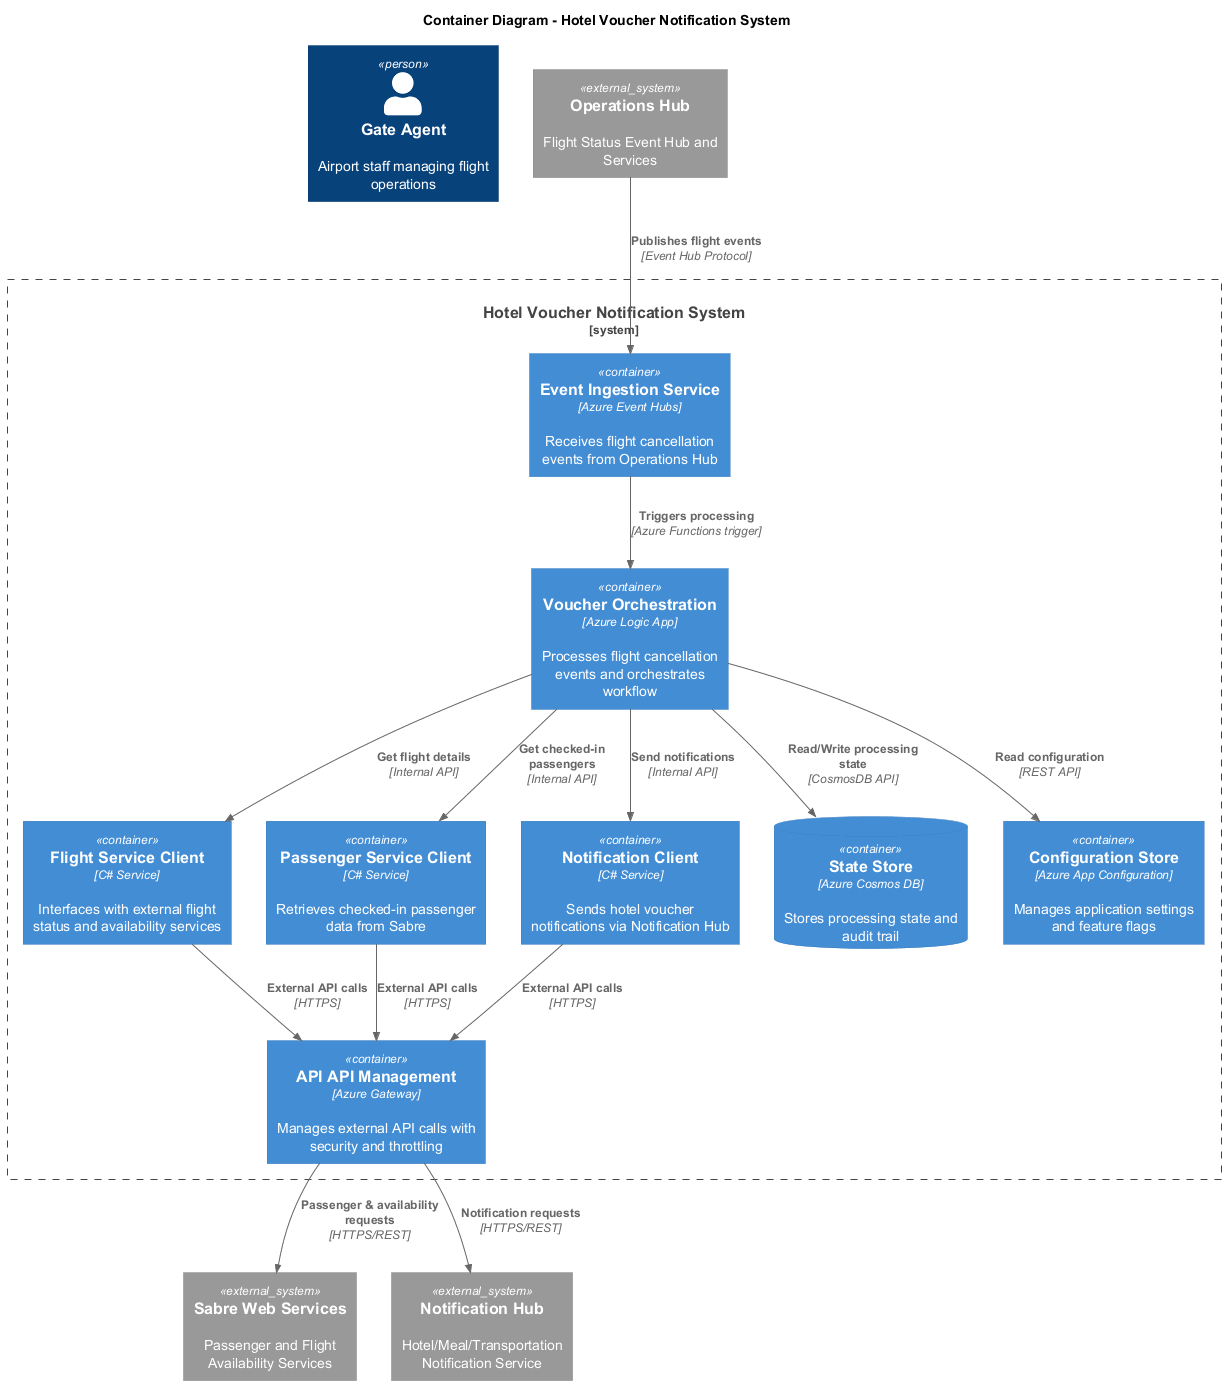
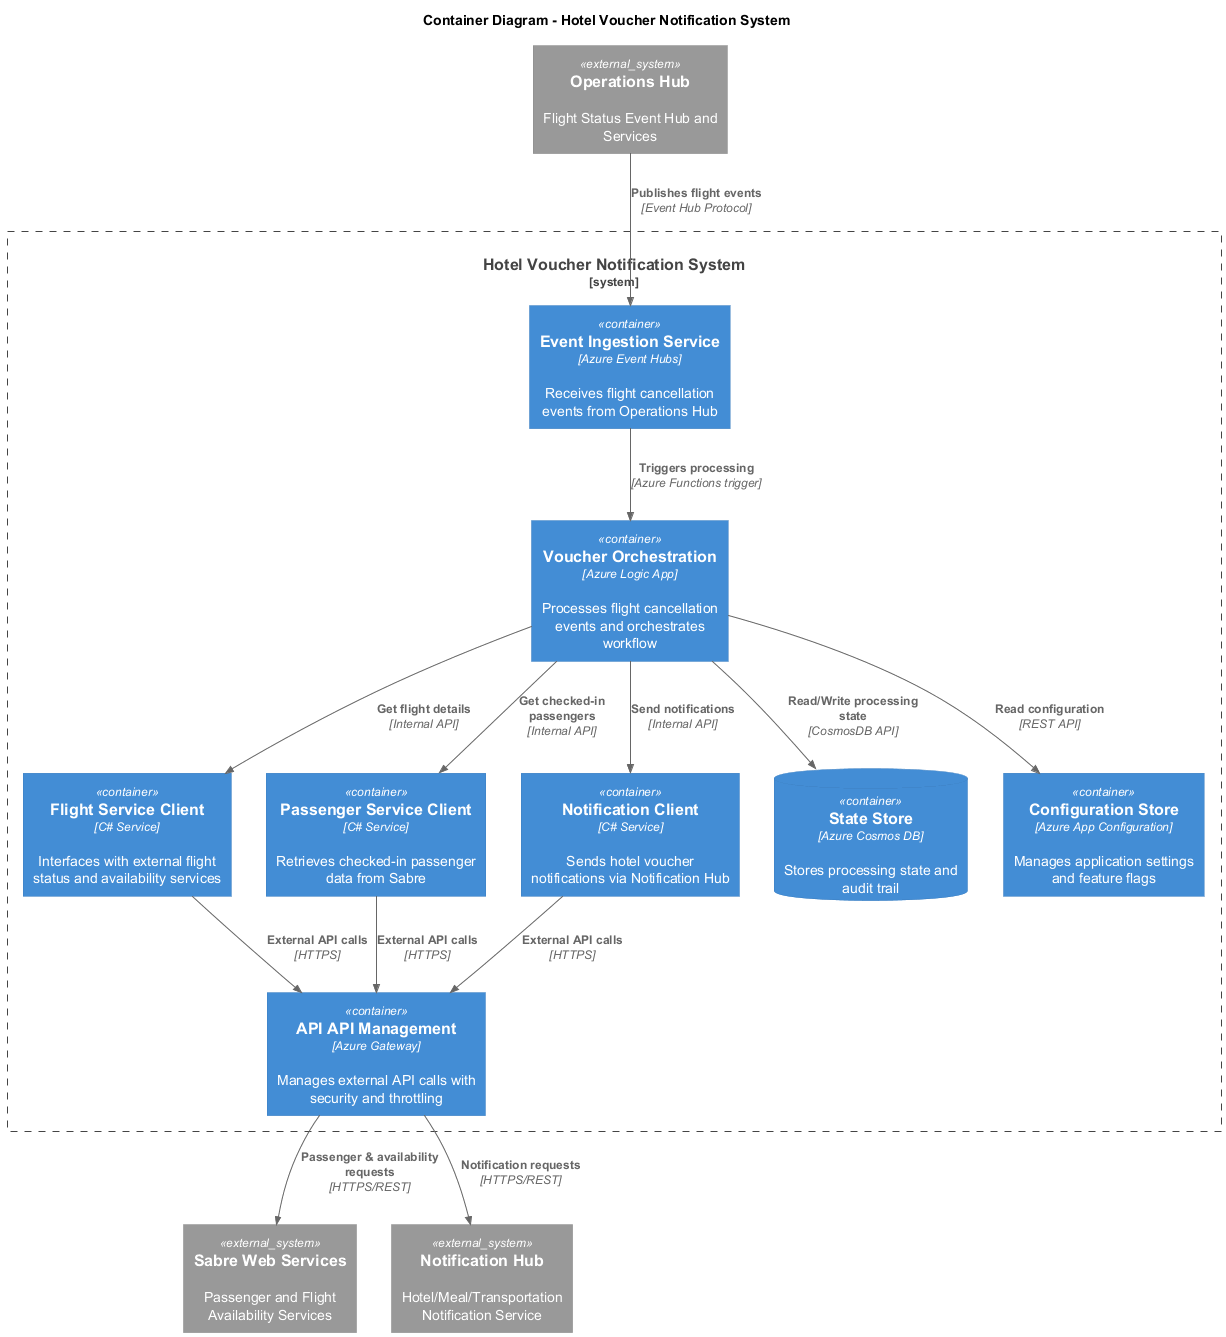
commit

Changed region(s): [[0.155, 0.0, 0.9918, 1.0], [0.0, 0.552, 0.186, 0.7053], [0.217, 0.9813, 0.279, 1.0]]

diff --git a/Exercise3/solution.md b/Exercise3/solution.md
@@ -2,27 +2,32 @@ Here is the comprehensive C4 diagram set for the Hotel Voucher Notification Syst
 ### 1. Context Diagram
 Shows the high-level system context with external actors and systems:
 
-Gate Agents using Gate Applications
-Passengers receiving notifications
-External systems (Operations Hub, Notification Hub, Sabre Services)
+-  Gate Agents using Gate Applications
+- Passengers receiving notifications
+- External systems (Operations Hub, Notification Hub, Sabre Services)
+
 ![Context](diagrams/C4_Context.png)
 
 #### 2. Container Diagram
 Details the internal architecture of the notification system:
 
-API Gateway: Azure API Management for security and rate limiting
-Event Processor: Handles flight cancellation events from Operations Hub
-Notification Orchestrator: Core workflow engine
-Flight Analyzer: Checks flight availability and passenger eligibility
-Supporting services: Service Bus, Cosmos DB, Key Vault, Application Insights
+
+- Event Ingestion Service: Receives events from Operations Hub
+- Voucher Orchestration: Core workflow engine
+- Flight Service Client: Checks flight availability and passenger eligibility
+- Passenger Service Client: Retrieves checked-in passenger data from Sabre
+- Notification Client : Sends hotel voucher notifications via Notification Hub
+- Supporting services: Event Bus, Cosmos DB, Key Vault, Configuration Store
 ![Container](diagrams/Container_Diagram.png)
 
 ### 3. Component Diagram
 Breaks down the Notification Orchestrator into specific components:
 
-Message Handler, Eligibility Checker, Availability Validator
-Passenger Service, Notification Service, Audit Service
-Retry Handler for failed notifications
+- Voucher Orchestrator
+- Status Checker
+- Availability Checker
+- Passenger Fetcher
+- Notifier
 ![Component](diagrams/3-component.png)
 
 ### 4. Deployment Diagram
@@ -34,6 +39,8 @@ Data: Cosmos DB and Service Bus with private connectivity
 Security: Key Vault, Azure AD, Security Center, Sentinel
 Monitoring: Application Insights and Log Analytics
 ![Deployment](diagrams/Deployment_Architecture.png)
+![Deployment](diagrams/data-flow.png)
+
 
 ### 5. Sequence Diagram
 Illustrates the complete workflow from flight cancellation to passenger notification, including:
